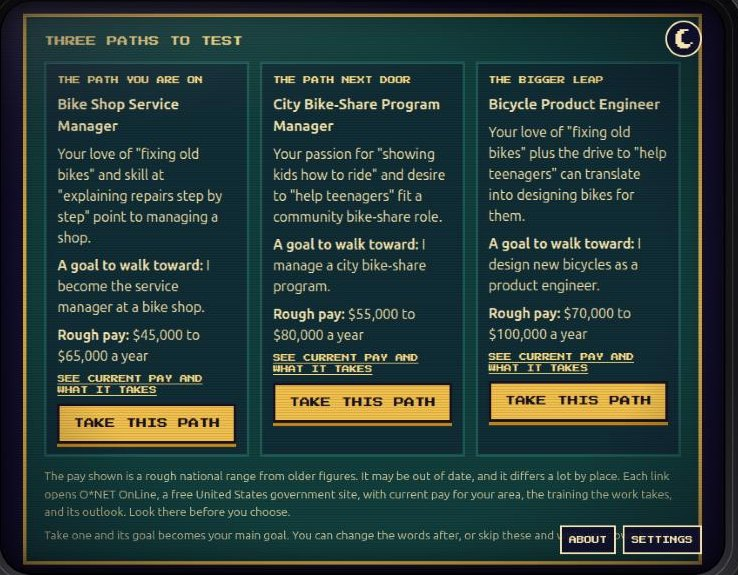
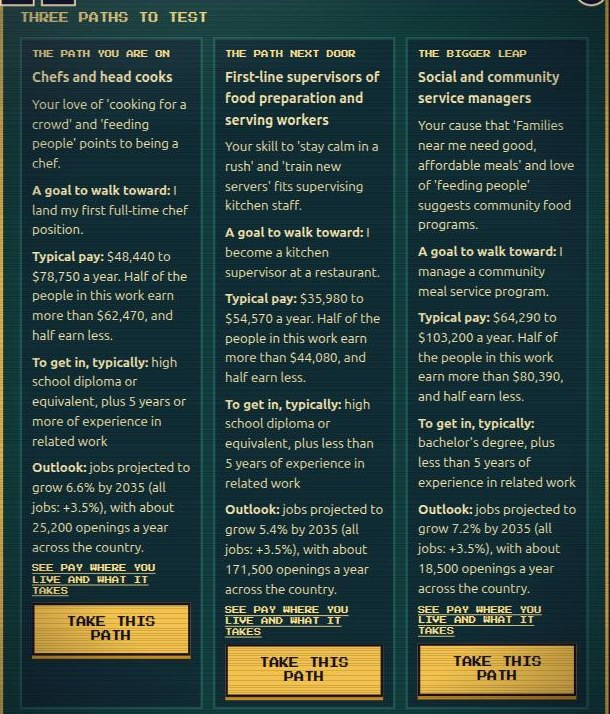
Describe the schooling question and show the new path cards in the trail log

diff --git a/blog/index.html b/blog/index.html
@@ -705,20 +705,21 @@ const parts = [
         title: 'The Crossroads',
         says: 'Three paths. I cannot tell you which one. I can sit here while you pick.',
         img: 'paths.jpg',
-        alt: 'Three cards side by side: the path you are on, the path next door and the bigger leap, each naming a job, a goal and a rough pay range.',
+        alt: 'Three cards side by side: the path you are on, the path next door and the bigger leap. Each names a real occupation, a goal, its typical pay, what it takes to get in, and its outlook.',
         cap: 'Three paths to test, built from one made-up player\'s own words.',
         text: [
           'After the four levels comes the Crossroads. If you ask, Todah lays out three paths to test, each one a real full-time occupation chosen from your own words: the one closest to where you stand, one next door, and a bigger leap.',
           'Each card shows what that work really pays, what it typically takes to get in, and whether it is growing. Those figures come from the U.S. Bureau of Labor Statistics, not from the AI.',
-          'Before he looks, you can tell him roughly what you make in a year now. You can leave it empty. If you fill it in, work that would pay you less is left out.',
+          'Before he looks, you can tell him two things, both optional: roughly what you make in a year now, and the most schooling you have finished. Work that would pay you less is left out, and your nearest path stays within reach of the schooling you have.',
           'Taking a path sets the goal the roar waits for. Writing your own goal is always there too, and Todah gives his thoughts either way.',
         ],
         hood: [
           'The model no longer names jobs. It picks from `data/occupations.json`: 756 occupations from the Bureau of Labor Statistics, built by a Python script from two public spreadsheets (the 2025 to 2035 Employment Projections and the May 2025 wage survey), using only the standard library.',
           'Before the model sees the list, the server cuts it to occupations with a median of at least $40,000 and, if the player said what they make, at least 90% of that. The model is never told the amount. It cannot offer a step down, because a step down is not on its list.',
           'About 660 titles is too much to send in one request on the free AI tier. So there are two small calls: first the model picks up to five of the 22 occupation groups, then it chooses among the occupations in them.',
+          'Schooling works by marking, not hiding. Occupations that typically take more than the player has finished get a `+` on their line, and the model is told the nearest path may not have one. It sees the marks and what the player studied, never the level itself. A path past their schooling carries a note on the card, because typical is not the same as required.',
           'It returns three codes with a sentence of why and a goal for each. The server accepts only codes that were on the list it showed, one of each kind, and fills in the title, pay, training and outlook from the data.',
-          'The answer is saved under a key made from the four claims, their scores and that amount, so it is asked for once, and asked again only if one of them changes. Each card links to O*NET OnLine for pay where the player lives.',
+          'The answer is saved under a key made from the four claims, their scores, that amount and the schooling, so it is asked for once, and asked again only if one of them changes. Each card links to O*NET OnLine for pay where the player lives.',
         ],
       },
       {

diff --git a/README.md b/README.md
@@ -72,6 +72,8 @@ prophet: nothing in the game promises a job or an outcome.
   for pay in the player's area. Occupations with a median under $40,000 are never offered.
   Before asking, the player can say roughly what they make in a year now (optional):
   occupations that pay less than about that are then left out before the AI sees the list.
+  They can also say the most schooling they have finished, and in what (optional): the
+  nearest path then stays within it, and a path that typically takes more says so on its card.
   Taking a path sets the main goal. The player can always
   write their own goal instead, and Todah gives his thoughts either way. Without AI replies
   the player gets three questions to find the paths themselves
@@ -240,6 +242,8 @@ Some answers in RWR are personal, so the game is built to collect as little as p
 - What you make in a year, if you choose to say, is saved on your device and sent to RWR's
   server only to leave out work that would pay you less. The server does not store it and
   does not pass it to the AI service.
+- The most schooling you have finished, if you choose to say, is handled the same way. What
+  you studied (for example "welding") is sent to the AI service with your four claims.
 - A wardrobe idea is emailed to the maker with whether your lion is a lion or a lioness, and
   nothing else about you or your game.
 - Your game is saved in your browser (localStorage). The in-game Privacy page lets you turn
@@ -255,8 +259,8 @@ To be completed before submission. Running notes:
 - The code was written with Claude Code, directed, play-tested and reviewed by Juan. Juan made
   the product decisions: name, character, guest mode, hosting, slot names, the roar rule, music
   and sound, the lion and lioness wardrobes, the old TV set, that a path taken at the
-  Crossroads becomes the goal, how pay is shown, asking what the player makes now and using
-  real job data so the paths never pay less, the endings (the Trail Card, the sealed
+  Crossroads becomes the goal, how pay is shown, asking what the player makes now and what schooling they have, and
+  using real job data so the paths never pay less, the endings (the Trail Card, the sealed
   letter, the held roar and its credits), speaking answers, and the back arrow and home button.
 - Art (sprites, title mockups, reward still, wardrobe sheets) is AI-generated (Gemini and
   others), then cut, cleaned and recolored by the scripts in `scripts/`.

diff --git a/docs/architecture/overview.md b/docs/architecture/overview.md
@@ -78,6 +78,14 @@ flowchart LR
     picks up to five of the 22 occupation groups (`pathGroupsPrompt`, low reasoning effort),
     and then chooses among the occupations in them (`pathsPrompt`, medium effort: on low it
     reached for the nearest job title, not the step up).
+  - The player can also say the most schooling they have finished and in what
+    (`progress.schooling`, `progress.schoolingField`, `lib/schooling.ts`, both optional). The
+    levels line up with BLS's "typical education needed for entry". Occupations that typically
+    take more are marked `+` in the list, and the prompt says `near` may not be marked. The
+    model sees the marks and the field of study, never the level. A set whose `near` is
+    marked is asked for once more and kept if the second try is no better. Any path past the
+    player's schooling is marked `more` and the card says so: typical is not required, so
+    schooling never hides a path.
   - The model returns three codes, each with one sentence of why and a goal. `readPaths` in
     the route accepts exactly one of each kind, each a different code that was on the list it
     was shown, and asks once more if the reply is anything else. The title, the pay (lower and
@@ -88,8 +96,8 @@ flowchart LR
     the player's area.
   Earlier the model named occupations and pay from memory. It invented jobs, got training
   wrong, and raised its pay figures when told the player earned more, which is why none of
-  that is left to it. The answer is saved with the claims, scores and amount it was made
-  from. Taking a path writes its goal to `goalText`. With the AI off or down the player gets
+  that is left to it. The answer is saved with the claims, scores, amount and schooling it
+  was made from. Taking a path writes its goal to `goalText`. With the AI off or down the player gets
   three questions to find the paths themselves.
 - **Todah's thoughts on the goal**: one call in `goal` mode whenever `goalText` changes, saved
   with the goal it was about. It is left out without the AI.
